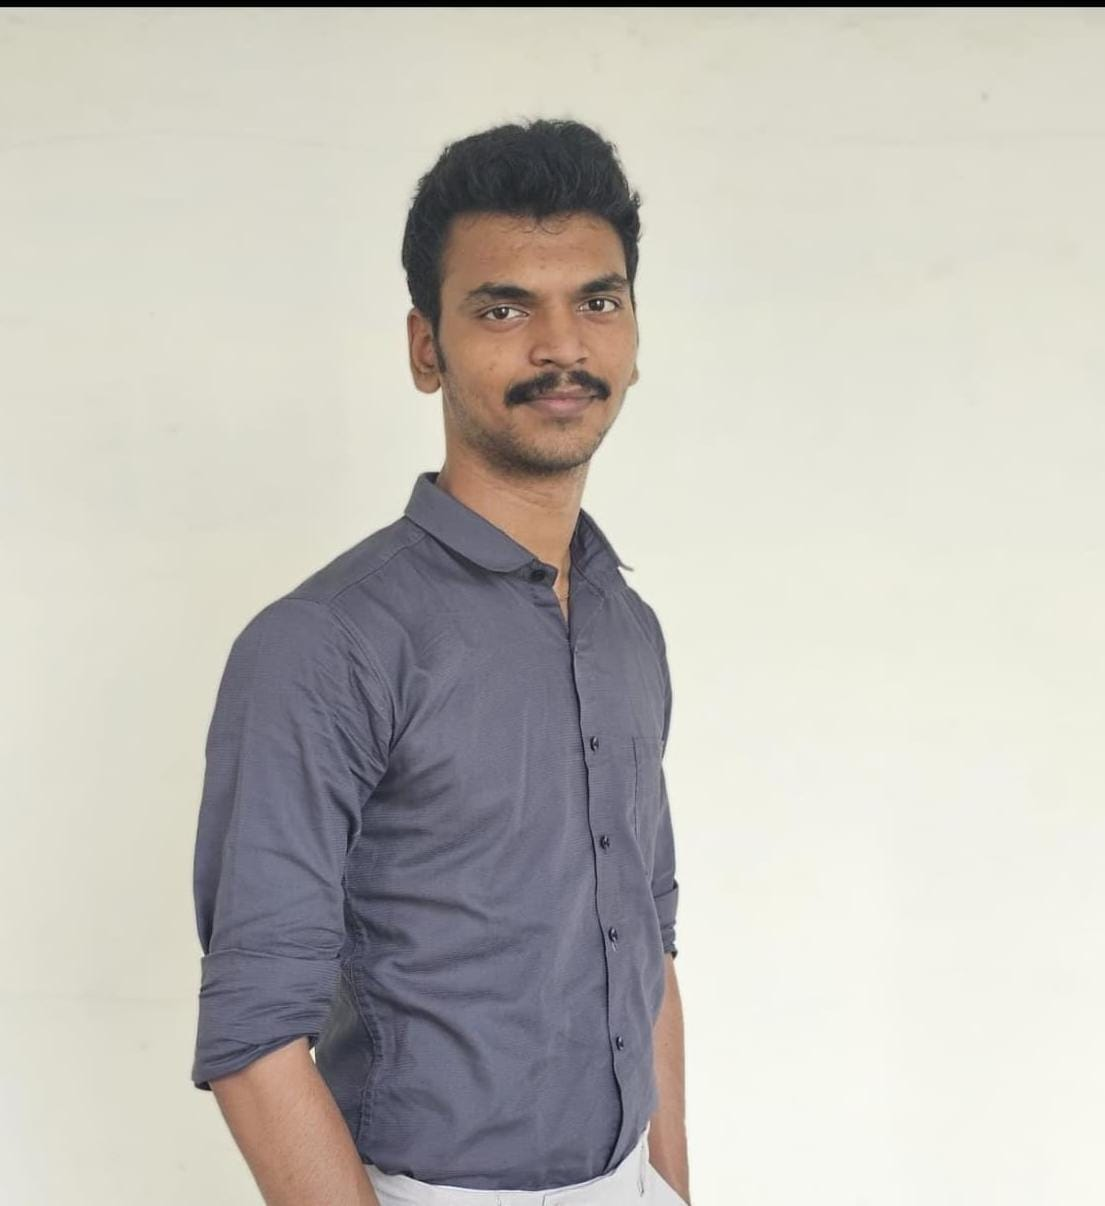
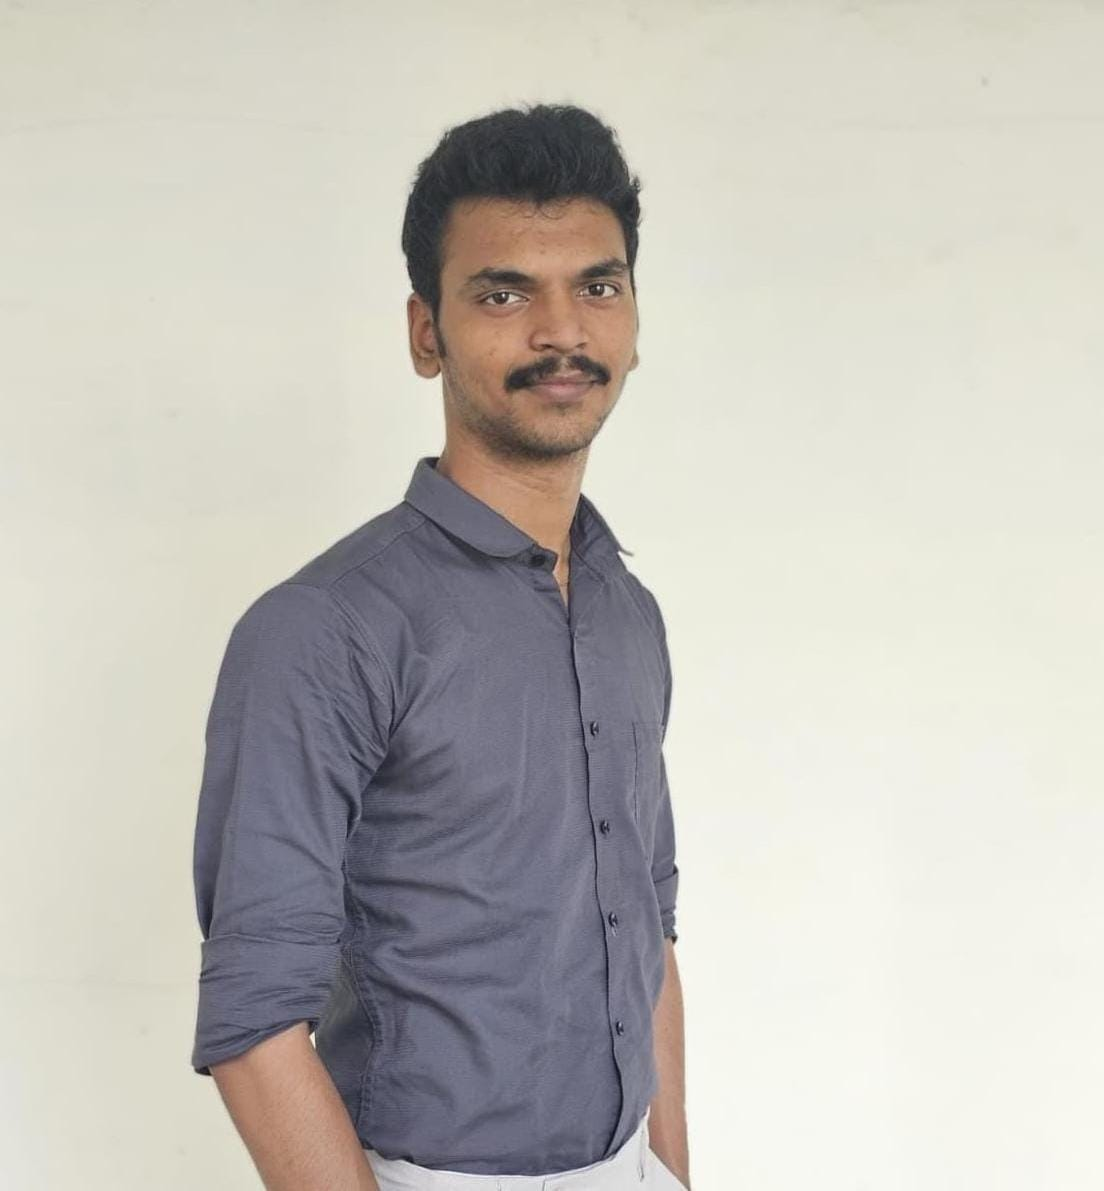
changed images

diff --git a/index.html b/index.html
@@ -677,7 +677,7 @@
      <div class="flex font-[inter] md:gap-52 gap-[55px] items-center justify-center max-md:flex-col">
       <div class="flex flex-col gap-3
        items-center justify-center rounded-lg">
-        <img src="Assets/Team/JM.jpg" alt="" class="rounded-full w-60 h-60 object-cover ring-4 ring-[#fff6ed]">
+        <img src="Assets/Team/jma.jpg" alt="" class="rounded-full w-60 h-60 object-cover ring-4 ring-[#fff6ed]">
         <div class=""><h1 class="text-xl font-bold text-center">John Moses A</h1>
           <p class="text-center text-[10px] text-slate-500">Chief Executive Officer</p></div>
         <div class="flex space-x-3">
@@ -728,7 +728,7 @@
       </div>
       <div class="flex flex-col gap-3
        items-center justify-end rounded-lg">
-        <img src="Assets/Team/KP.jpg" alt="" class="rounded-full w-52 h-52 object-center ring-4 ring-[#fff6ed]">
+        <img src="Assets/Team/KP.jpg" alt="" class="rounded-full w-52 h-52 object-cover ring-4 ring-[#fff6ed]">
         <div class=""><h1 class="text-xl font-bold text-center">Kabilan P</h1>
           <p class="text-center text-[10px] text-slate-500">Chief Operating Officer</p></div>
         <div class="flex space-x-3">
